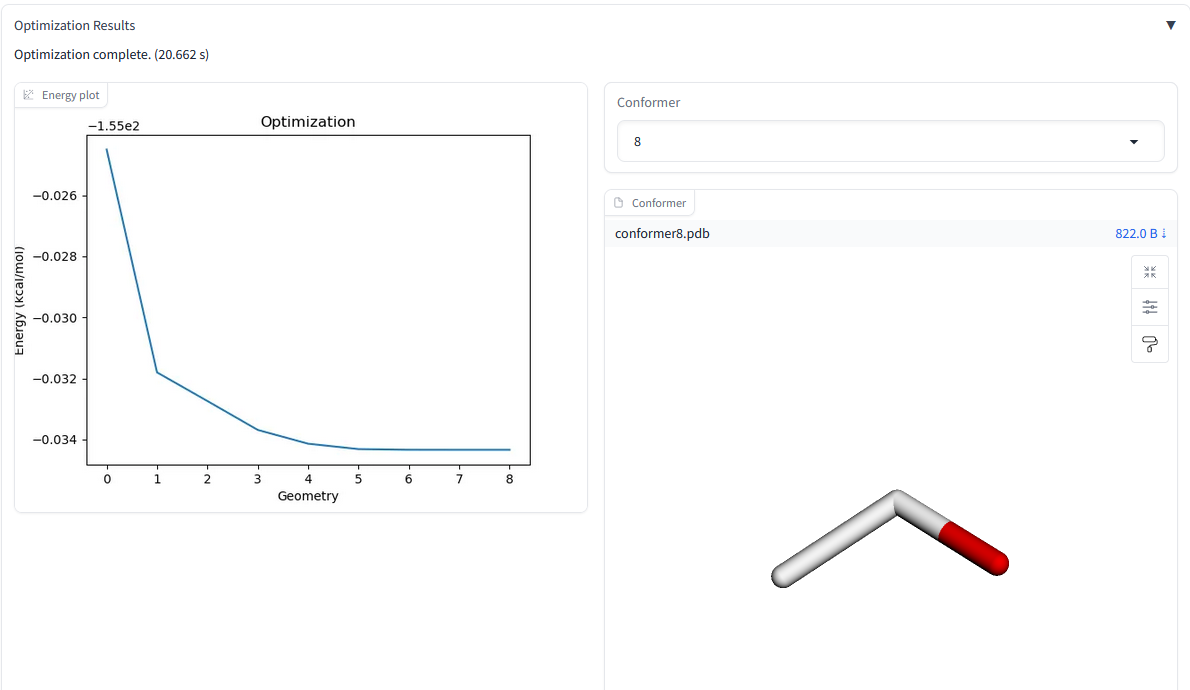
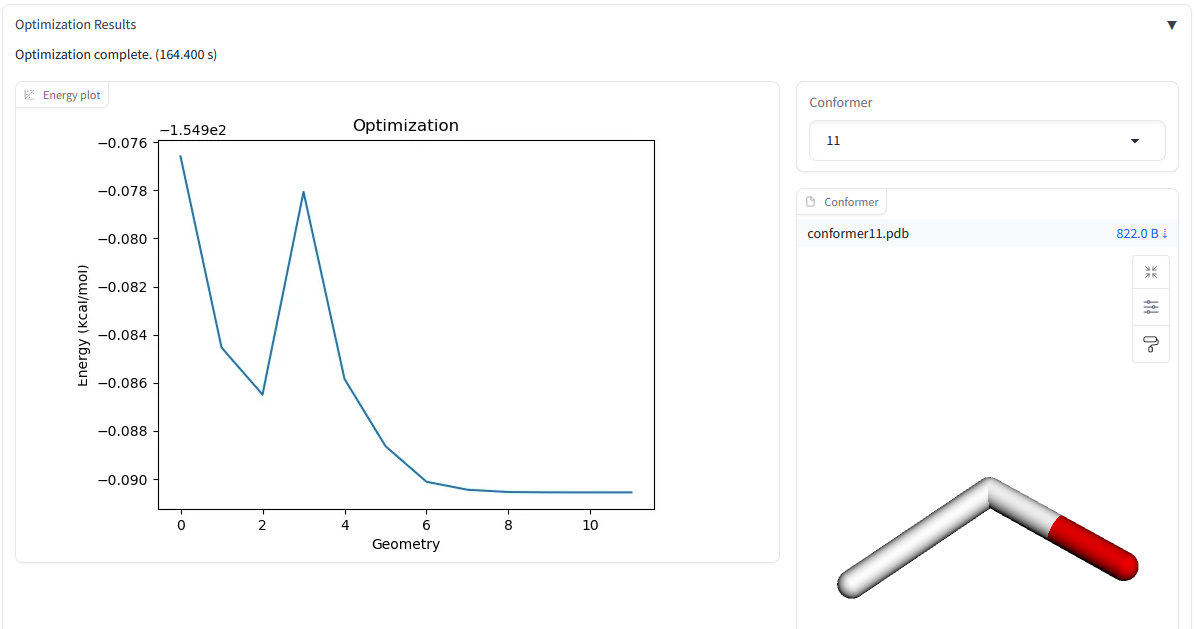
update web UI

diff --git a/frequency_analysis.py b/frequency_analysis.py
@@ -15,6 +15,7 @@ def on_create_molecule(molecule_editor: molecule2d):
     os.makedirs(".\\structures", exist_ok=True)
     file_path = ".\\structures\\molecule.pdb"
     try:
+        global mol
         mol = Chem.MolFromSmiles(molecule_editor)
         mol = Chem.AddHs(mol)
         smiles = Chem.CanonSmiles(molecule_editor)
@@ -284,9 +285,9 @@ def frequency_analysis_tab_content():
             with gr.Row(equal_height=True):
                 status_markdown = gr.Markdown()
             with gr.Row(equal_height=True):
-                with gr.Column(scale=1):
-                    energy_plot = gr.Plot(label="Energy plot")
                 with gr.Column(scale=2):
+                    energy_plot = gr.Plot(label="Energy plot")
+                with gr.Column(scale=1):
                     conformer_dropdown = gr.Dropdown(label="Conformer", visible=False)
                     conformers_viewer = Molecule3D(label="Conformer", reps=reps)  
             with gr.Row(equal_height=True):        

diff --git a/geometry_optimization.py b/geometry_optimization.py
@@ -15,6 +15,7 @@ def on_create_molecule(molecule_editor: molecule2d):
     os.makedirs(".\\structures", exist_ok=True)
     file_path = ".\\structures\\molecule.pdb"
     try:
+        global mol
         mol = Chem.MolFromSmiles(molecule_editor)
         mol = Chem.AddHs(mol)
         smiles = Chem.CanonSmiles(molecule_editor)
